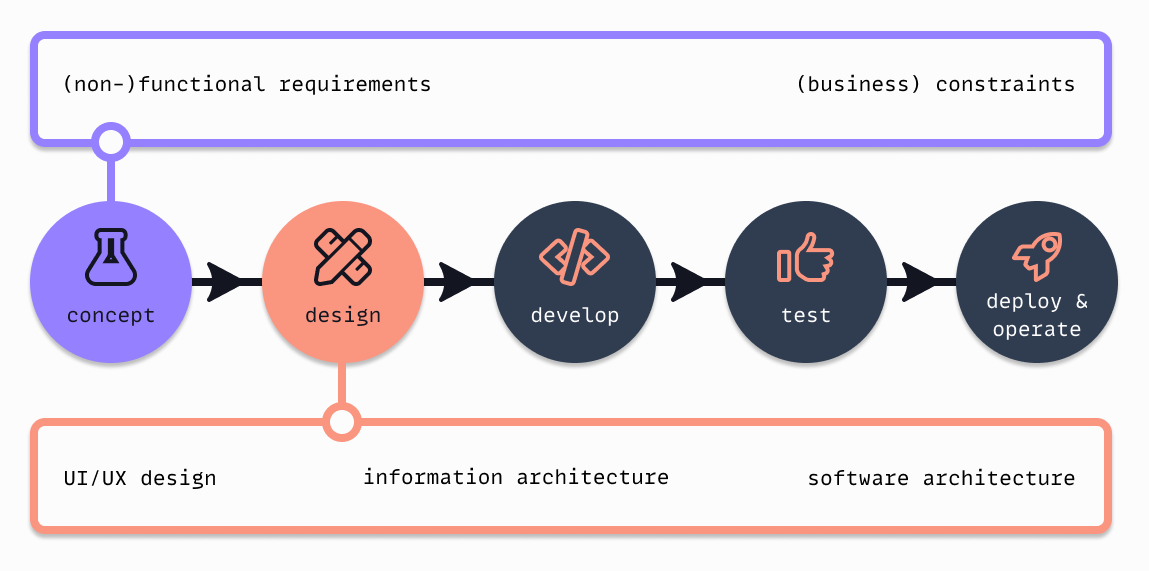
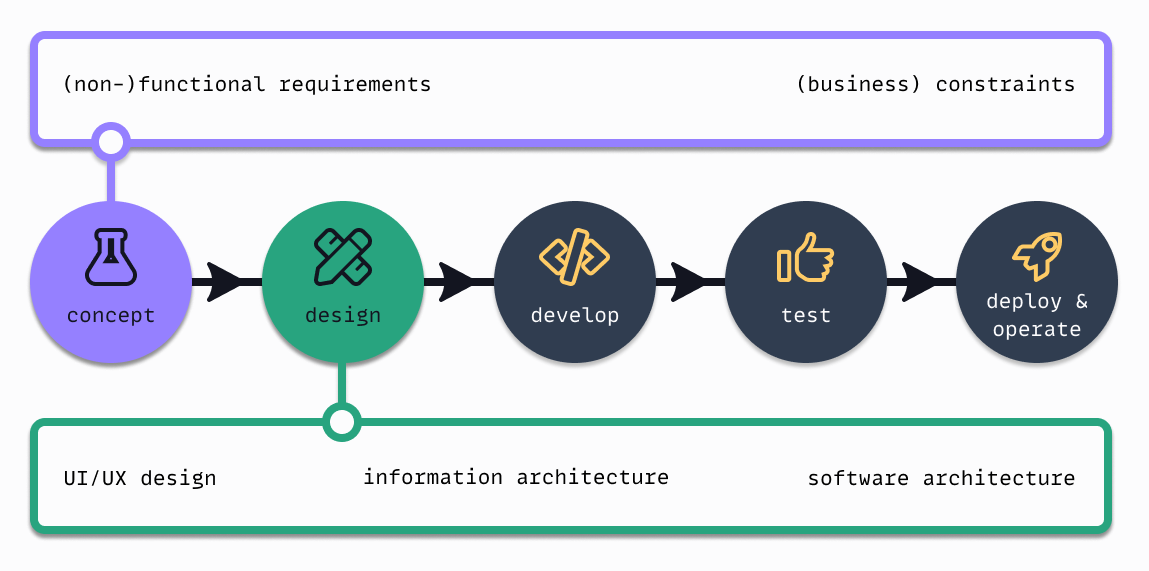
a new article, yet again

diff --git a/src/styles/_utils/click-area.css b/src/styles/_utils/click-area.css
@@ -1,4 +1,4 @@
- /* Makes an entire box clickable based on a single child anchor */
+/* Makes an entire box clickable based on a single child anchor */
 .click-area {
   position: relative;
 }
@@ -9,9 +9,6 @@
 
 .click-area a::after {
   position: absolute;
-  top: 0;
-  right: 0;
-  bottom: 0;
-  left: 0;
-  content: '';
+  inset: 0;
+  content: "";
 }

diff --git a/src/styles/_base/tokens.css b/src/styles/_base/tokens.css
@@ -11,7 +11,7 @@
   --token-color-grey-5: hsl(var(--hue), var(--saturation), 8%);
   --token-color-brand-0: #9856f6;
   --token-color-brand-1: #bd93f9;
-  --token-color-brand-2: #fa9580;
+  --token-color-brand-2: #fecb66;
   --token-color-brand-3: #28a47f;
 
   /* Create CSS variables around breakpoints */

diff --git a/src/writing/hiding-side-content-in-responsive-design.md b/src/writing/hiding-side-content-in-responsive-design.md
@@ -1,0 +1,65 @@
+---
+title: Hiding side content in responsive design
+date: 2023-02-24T00:00:00.000Z
+tags:
+  - css
+  - trick
+layout: layouts/post.njk
+description: >-
+  A trick to hide content in specific responsive layout patterns without the need for media queries. But with a few gotchas.
+---
+
+I always love solutions that allow me to achieve the same results where others choose for media queries. I am not opposed to media queries. But, in line with Andy Bell’s *[be the browser’s mentor, not its micro-manager](https://www.youtube.com/watch?v=5uhIiI9Ld5M)*, I feel media queries are very specific rules. We can live (mostly) without them!
+
+## How does it work?
+There are two types of responsive layout patterns I can think of where you can use this trick. It’s the *switcher* and *sidebar* patterns from [Every Layout](https://every-layout.dev). Both layouts automatically switch from horizontal to vertical if there is not enough room left to uphold the conditions. Below is an illustration of the *switcher* layout below.
+
+![Workings of the switcher layout pattern](/img/switcher-layout.png)
+
+Both these layout patterns do not use media queries to achieve their results. The boundary condition in both these patterns is that they start with a wrapper like the one below. 
+
+```css
+.my-layout {
+	display: flex;
+	flex-wrap: wrap;
+}
+```
+
+But what if we want to hide one block when we switch to the vertical layout? So in the example below, we want to hide the middle block when we have a smaller screen. Traditionally, we would write a hiding mechanism using media queries (e.g. `@media(max-width: 20rem)`. But there is a way around it. 
+
+![Visualizing responsive hiding](/img/responsive-hiding.png)
+
+For this explanation, let’s assume that this block is an `aside` element. To make this work, we need to build our HTML like the snippet below. Yes, you need one additional level inside the `aside` element.
+
+```html
+<div class="my-layout">
+	<div>...</div>
+	<aside><div>...</div></aside>
+	<div>...</div>
+</div>
+```
+
+We start with adding an `align-self: stretch` on the `aside` element. This ensures that in a horizontal orientation, the `aside` assumes the height of the entire row. Next, we add `position: relative` on the `aside` and a `position: absolute` on its child. Combined with the `inset: 0`, we ensure that `aside > *` is usable in a horizontal orientation. The horizontal orientation is now complete. 
+
+Now for the vertical orientation. With the `position` attributes ensure `aside` has no calculated height in a vertical orientation. The child is taken [out of flow](https://developer.mozilla.org/en-US/docs/Web/CSS/CSS_Flow_Layout/In_Flow_and_Out_of_Flow) due to the `absolute` value. By adding an `overflow: hidden` to the `aside`, we ensure that the child content is hidden in a vertical orientation. You know, due to the zero calculated height. Combined it would look like the code below.
+
+```css
+.my-layout > aside {
+	align-self: stretch;
+	position: relative;
+	overflow: hidden;
+}
+
+.my-layout > aside > * {
+	position: absolute;
+	inset: 0;
+}
+```
+
+## Gotchas
+As said, this is a very specific trick, that has a few gotchas.
+
+- If you set a height or min-height on the “parent” it will not work. Once it wraps to a new line, the side content will still be visible. 
+- when you set a gap on the wrapper, you will have an unwanted side effect once the content wraps to new lines. Although the side content is not visible, it is part of the DOM. This means that a vertical gap will be applied. Creating a kind of margin-bottom effect.
+
+Although the use case is limited and the gotchas add more limitations, it does have some usage.

diff --git a/src/writing/an-ode-to-the-css-owl-selector.md b/src/writing/an-ode-to-the-css-owl-selector.md
@@ -1,7 +1,9 @@
 ---
 title: An ode to the CSS owl selector
 date: 2022-03-05T00:00:00.000Z
-tags: css
+tags: 
+  - css
+  - trick
 layout: layouts/post.njk
 description: One off the most beautiful CSS selectors is the Lobotomized Owl Selector of Heydon Pickering
 ---
